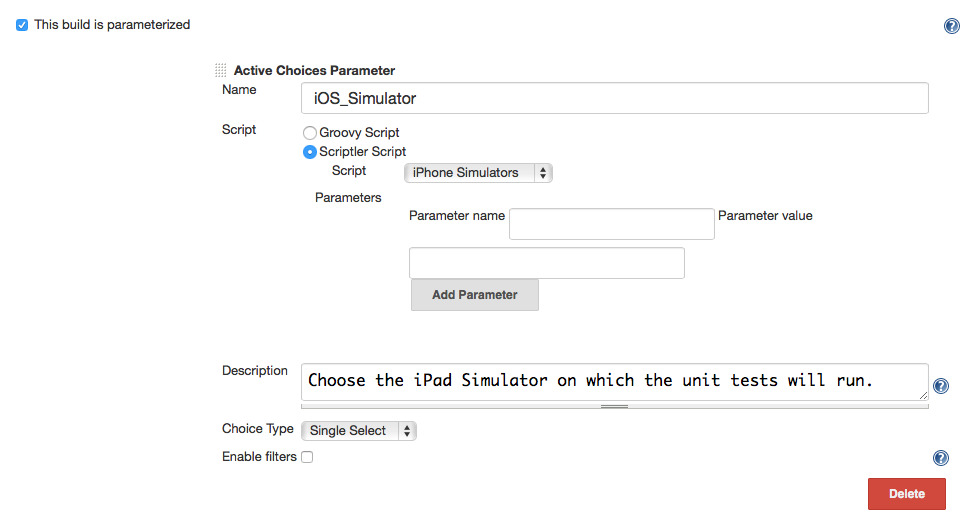
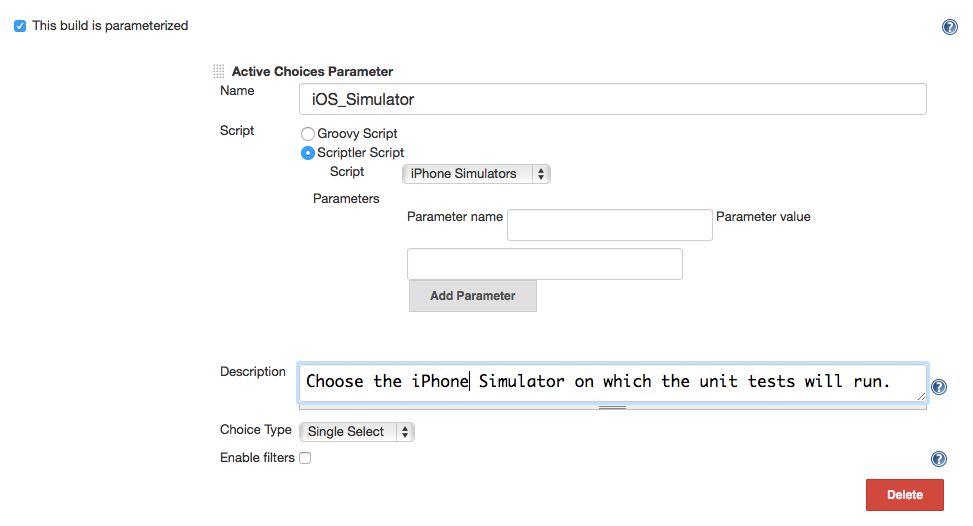
Adding job configuration sample image

diff --git a/README.md b/README.md
@@ -3,9 +3,10 @@
 This script was created to show a parametrized option with available iOS Simulator in a build job in Jenkis-CI.
 
 This is how it will look when you build your project:
-<div style="text-align:center">
+<div style="align:center">
 <img align="center" src="https://github.com/cbscd/GetiOSSimulatorsPerl/blob/master/Docs/JenkinsCI-BuildProjectSample.png?raw=true"/>
 </div>
+
 ----------
 ### Installation
 Put the **listAvailableSims.pl** into $JENKINS_HOME folder and configure a Scriptler script.
@@ -116,3 +117,7 @@ if( out.size() > 0 ) {
 ----------
 ### Job configuration
 In the job configuration, use the [Active Choices Plugin](https://wiki.jenkins-ci.org/display/JENKINS/Active+Choices+Plugin) to choose the Scriptler Script.
+
+<div style="align:center">
+<img align="center" src="https://github.com/cbscd/GetiOSSimulatorsPerl/blob/master/Docs/JenkinsCI-JobConfigSample.png?raw=true"/>
+</div>
